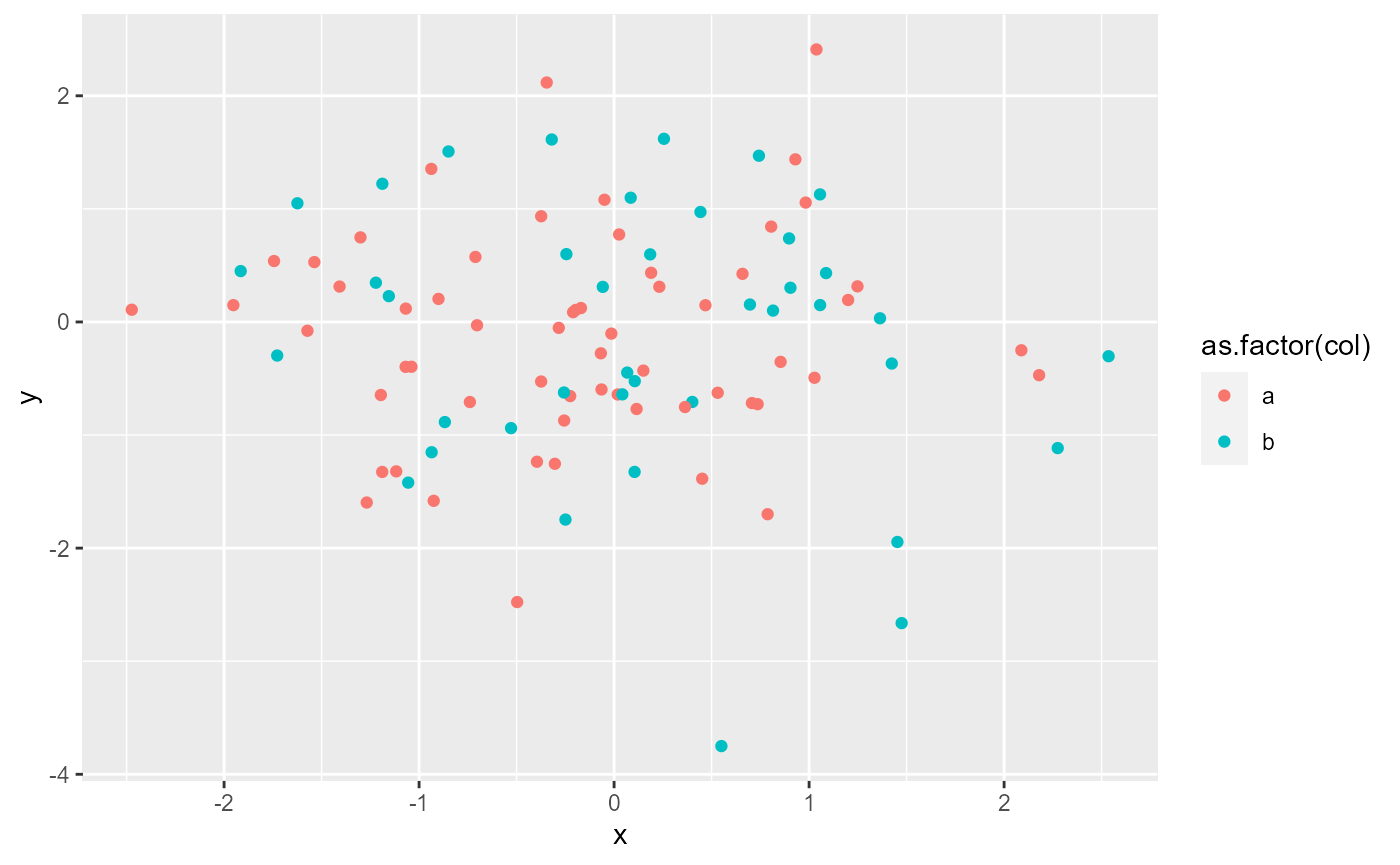
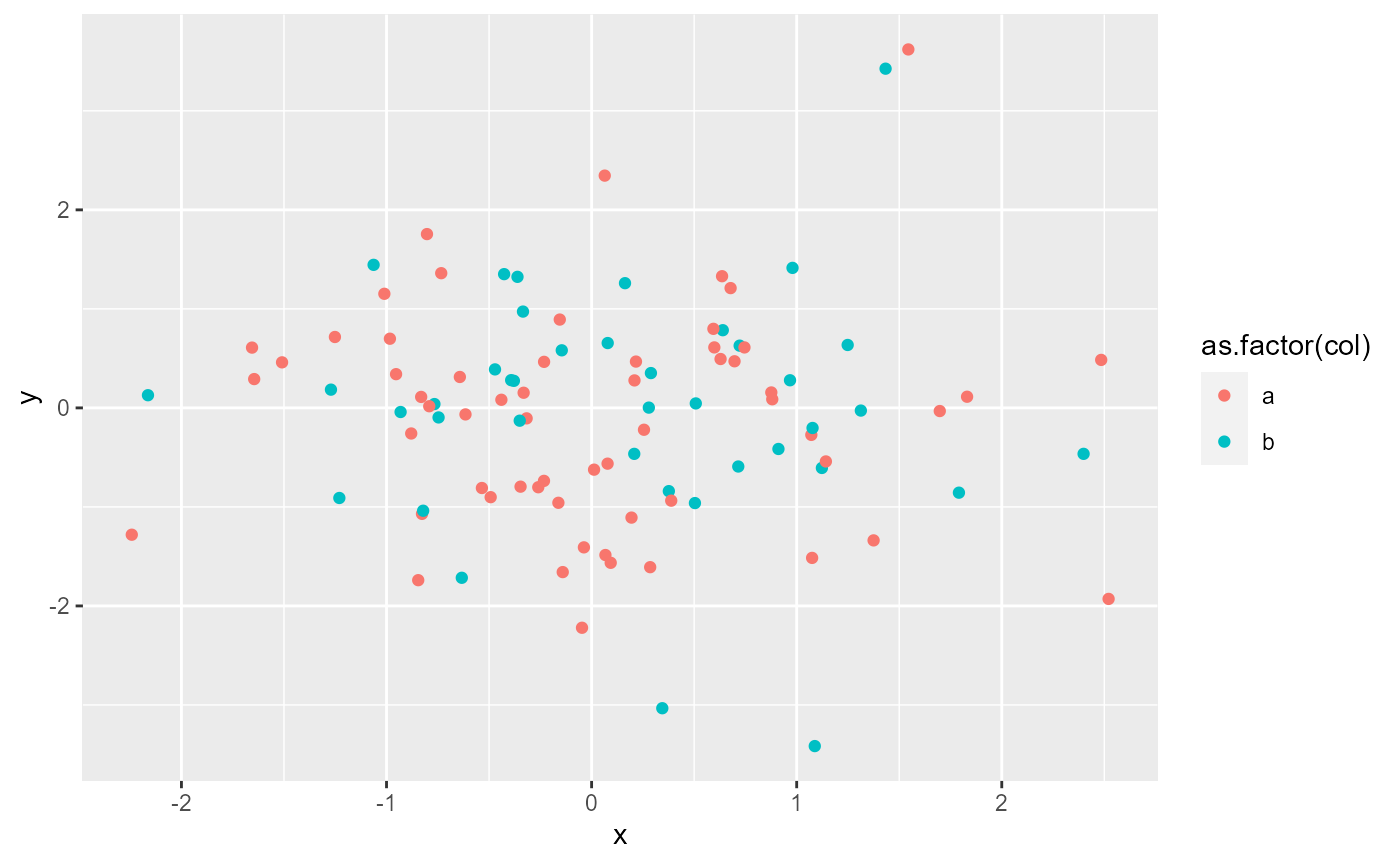
midstep 7

diff --git a/doc/C_functions-to-help-write-report.html b/doc/C_functions-to-help-write-report.html
@@ -262,7 +262,7 @@ div.csl-indent {
 <span id="cb6-13"><a href="#cb6-13" aria-hidden="true" tabindex="-1"></a><span class="co"># ```{r, child = system.file(&quot;rmd/_child_save_fig.Rmd&quot;, package = &quot;NMFSReports&quot;)}</span></span>
 <span id="cb6-14"><a href="#cb6-14" aria-hidden="true" tabindex="-1"></a><span class="co"># ```</span></span></code></pre></div>
 <div class="figure">
[2 lines of base64/hex data omitted]
 <p class="caption">Figure 1. Here is a figure!<a href="#fn4" class="footnote-ref" id="fnref4"><sup>4</sup></a> <sup>,</sup><a href="#fn5" class="footnote-ref" id="fnref5"><sup>5</sup></a></p>
 </div>
 <p><em>Alternative text: This is a scatter plot of random data.</em></p>
@@ -341,53 +341,53 @@ div.csl-indent {
 <tbody>
 <tr class="odd">
 <td align="left">A</td>
-<td align="left">-1.3</td>
-<td align="left">-0.77</td>
+<td align="left">0.77</td>
+<td align="left">-0.28</td>
 </tr>
 <tr class="even">
 <td align="left">B</td>
-<td align="left">0.59</td>
-<td align="left">0.31</td>
+<td align="left">-0.42</td>
+<td align="left">-1.5</td>
 </tr>
 <tr class="odd">
 <td align="left">C</td>
-<td align="left">-1.1</td>
-<td align="left">-1.9</td>
+<td align="left">1.3</td>
+<td align="left">-1.4</td>
 </tr>
 <tr class="even">
 <td align="left">D</td>
-<td align="left">0.14</td>
-<td align="left">-1.2</td>
+<td align="left">0.12</td>
+<td align="left">-1</td>
 </tr>
 <tr class="odd">
 <td align="left">E</td>
-<td align="left">0.68</td>
-<td align="left">-0.24</td>
+<td align="left">-0.76</td>
+<td align="left">-1.9</td>
 </tr>
 <tr class="even">
 <td align="left">F</td>
-<td align="left">-0.71</td>
-<td align="left">-0.63</td>
+<td align="left">-0.15</td>
+<td align="left">-0.6</td>
 </tr>
 <tr class="odd">
 <td align="left">G</td>
-<td align="left">-0.51</td>
-<td align="left">0.29</td>
+<td align="left">-0.87</td>
+<td align="left">1.3</td>
 </tr>
 <tr class="even">
 <td align="left">H</td>
-<td align="left">-0.59</td>
-<td align="left">0.076</td>
+<td align="left">1</td>
+<td align="left">0.93</td>
 </tr>
 <tr class="odd">
 <td align="left">I</td>
-<td align="left">0.17</td>
-<td align="left">0.43</td>
+<td align="left">1.9</td>
+<td align="left">0.68</td>
 </tr>
 <tr class="even">
 <td align="left">J</td>
-<td align="left">0.42</td>
-<td align="left">1.1</td>
+<td align="left">-2.8</td>
+<td align="left">-0.21</td>
 </tr>
 </tbody>
 </table>
@@ -477,53 +477,53 @@ div.csl-indent {
 <tbody>
 <tr class="odd">
 <td align="left">A</td>
-<td align="left">-0.056</td>
-<td align="left">-1.6</td>
+<td align="left">-0.48</td>
+<td align="left">0.69</td>
 </tr>
 <tr class="even">
 <td align="left">B</td>
-<td align="left">-0.18<a href="#fn10" class="footnote-ref" id="fnref10"><sup>10</sup></a> <sup>,</sup><a href="#fn11" class="footnote-ref" id="fnref11"><sup>11</sup></a></td>
-<td align="left">-0.16</td>
+<td align="left">0.8<a href="#fn10" class="footnote-ref" id="fnref10"><sup>10</sup></a> <sup>,</sup><a href="#fn11" class="footnote-ref" id="fnref11"><sup>11</sup></a></td>
+<td align="left">0.48</td>
 </tr>
 <tr class="odd">
 <td align="left">C<a href="#fn12" class="footnote-ref" id="fnref12"><sup>12</sup></a></td>
-<td align="left">0.82<a href="#fn13" class="footnote-ref" id="fnref13"><sup>13</sup></a></td>
-<td align="left">1.6</td>
+<td align="left">-0.034<a href="#fn13" class="footnote-ref" id="fnref13"><sup>13</sup></a></td>
+<td align="left">-1.2</td>
 </tr>
 <tr class="even">
 <td align="left">D<a href="#fn14" class="footnote-ref" id="fnref14"><sup>14</sup></a> <sup>,</sup><a href="#fn15" class="footnote-ref" id="fnref15"><sup>15</sup></a></td>
-<td align="left">1.4</td>
-<td align="left">0.27</td>
+<td align="left">0.2</td>
+<td align="left">-1.7</td>
 </tr>
 <tr class="odd">
 <td align="left">E</td>
-<td align="left">0.79</td>
-<td align="left">-0.28</td>
+<td align="left">-2.7</td>
+<td align="left">-0.028</td>
 </tr>
 <tr class="even">
 <td align="left">F</td>
-<td align="left">1.7</td>
-<td align="left">-1.8</td>
+<td align="left">0.011</td>
+<td align="left">-0.71</td>
 </tr>
 <tr class="odd">
 <td align="left">G</td>
-<td align="left">0.76</td>
-<td align="left">0.077</td>
+<td align="left">0.16</td>
+<td align="left">-0.9</td>
 </tr>
 <tr class="even">
 <td align="left">H</td>
-<td align="left">0.43</td>
-<td align="left">1</td>
+<td align="left">0.074</td>
+<td align="left">0.68</td>
 </tr>
 <tr class="odd">
 <td align="left">I</td>
-<td align="left">0.003</td>
-<td align="left">0.9</td>
+<td align="left">-1.2</td>
+<td align="left">-0.15</td>
 </tr>
 <tr class="even">
 <td align="left">J</td>
-<td align="left">0.4</td>
-<td align="left">1.8</td>
+<td align="left">-1.5</td>
+<td align="left">0.64</td>
 </tr>
 </tbody>
 </table>

diff --git a/docs/articles/C_functions-to-help-write-report.html b/docs/articles/C_functions-to-help-write-report.html
@@ -324,53 +324,53 @@ Figure 2. Here is a figure!<a href="#fn6" class="footnote-ref" id="fnref6"><sup>
 <tbody>
 <tr class="odd">
 <td align="left">A</td>
-<td align="left">0.79</td>
-<td align="left">0.72</td>
+<td align="left">-0.18</td>
+<td align="left">-1.3</td>
 </tr>
 <tr class="even">
 <td align="left">B</td>
-<td align="left">-0.095</td>
-<td align="left">-0.73</td>
+<td align="left">1.3</td>
+<td align="left">0.61</td>
 </tr>
 <tr class="odd">
 <td align="left">C</td>
-<td align="left">0.17</td>
-<td align="left">0.13</td>
+<td align="left">0.073</td>
+<td align="left">-1.1</td>
 </tr>
 <tr class="even">
 <td align="left">D</td>
-<td align="left">0.3</td>
-<td align="left">-0.51</td>
+<td align="left">-0.6</td>
+<td align="left">1.6</td>
 </tr>
 <tr class="odd">
 <td align="left">E</td>
-<td align="left">1.4</td>
-<td align="left">-0.62</td>
+<td align="left">-0.75</td>
+<td align="left">1.8</td>
 </tr>
 <tr class="even">
 <td align="left">F</td>
-<td align="left">0.55</td>
-<td align="left">-0.72</td>
+<td align="left">-0.34</td>
+<td align="left">-0.1</td>
 </tr>
 <tr class="odd">
 <td align="left">G</td>
-<td align="left">0.74</td>
-<td align="left">-1.9</td>
+<td align="left">-0.66</td>
+<td align="left">-0.37</td>
 </tr>
 <tr class="even">
 <td align="left">H</td>
-<td align="left">0.38</td>
-<td align="left">1.1</td>
+<td align="left">-0.59</td>
+<td align="left">-0.42</td>
 </tr>
 <tr class="odd">
 <td align="left">I</td>
-<td align="left">0.97</td>
-<td align="left">0.57</td>
+<td align="left">0.52</td>
+<td align="left">1.1</td>
 </tr>
 <tr class="even">
 <td align="left">J</td>
-<td align="left">1.1</td>
-<td align="left">0.44</td>
+<td align="left">-0.23</td>
+<td align="left">-0.12</td>
 </tr>
 </tbody>
 </table>
@@ -462,57 +462,57 @@ Figure 2. Here is a figure!<a href="#fn6" class="footnote-ref" id="fnref6"><sup>
 <tbody>
 <tr class="odd">
 <td align="left">A</td>
-<td align="left">1</td>
-<td align="left">0.073</td>
+<td align="left">-0.46</td>
+<td align="left">-2.2</td>
 </tr>
 <tr class="even">
 <td align="left">B</td>
-<td align="left">-0.91<a href="#fn10" class="footnote-ref" id="fnref10"><sup>10</sup></a> <sup>,</sup><a href="#fn11" class="footnote-ref" id="fnref11"><sup>11</sup></a>
+<td align="left">-1.3<a href="#fn10" class="footnote-ref" id="fnref10"><sup>10</sup></a> <sup>,</sup><a href="#fn11" class="footnote-ref" id="fnref11"><sup>11</sup></a>
 </td>
-<td align="left">1.5</td>
+<td align="left">0.28</td>
 </tr>
 <tr class="odd">
 <td align="left">C<a href="#fn12" class="footnote-ref" id="fnref12"><sup>12</sup></a>
 </td>
-<td align="left">-2.1<a href="#fn13" class="footnote-ref" id="fnref13"><sup>13</sup></a>
+<td align="left">-0.34<a href="#fn13" class="footnote-ref" id="fnref13"><sup>13</sup></a>
 </td>
-<td align="left">0.45</td>
+<td align="left">0.081</td>
 </tr>
 <tr class="even">
 <td align="left">D<a href="#fn14" class="footnote-ref" id="fnref14"><sup>14</sup></a> <sup>,</sup><a href="#fn15" class="footnote-ref" id="fnref15"><sup>15</sup></a>
 </td>
-<td align="left">2.2</td>
+<td align="left">-1.2</td>
 <td align="left">-0.81</td>
 </tr>
 <tr class="odd">
 <td align="left">E</td>
-<td align="left">-1</td>
-<td align="left">0.53</td>
+<td align="left">0.13</td>
+<td align="left">1</td>
 </tr>
 <tr class="even">
 <td align="left">F</td>
-<td align="left">1.3</td>
-<td align="left">0.64</td>
+<td align="left">-0.43</td>
+<td align="left">0.81</td>
 </tr>
 <tr class="odd">
 <td align="left">G</td>
-<td align="left">0.49</td>
-<td align="left">0.57</td>
+<td align="left">0.14</td>
+<td align="left">0.74</td>
 </tr>
 <tr class="even">
 <td align="left">H</td>
-<td align="left">-1.1</td>
-<td align="left">0.82</td>
+<td align="left">-1.6</td>
+<td align="left">-1.7</td>
 </tr>
 <tr class="odd">
 <td align="left">I</td>
-<td align="left">0.19</td>
-<td align="left">-1.8</td>
+<td align="left">-0.86</td>
+<td align="left">-0.72</td>
 </tr>
 <tr class="even">
 <td align="left">J</td>
-<td align="left">0.079</td>
-<td align="left">0.88</td>
+<td align="left">-0.23</td>
+<td align="left">0.14</td>
 </tr>
 </tbody>
 </table>
